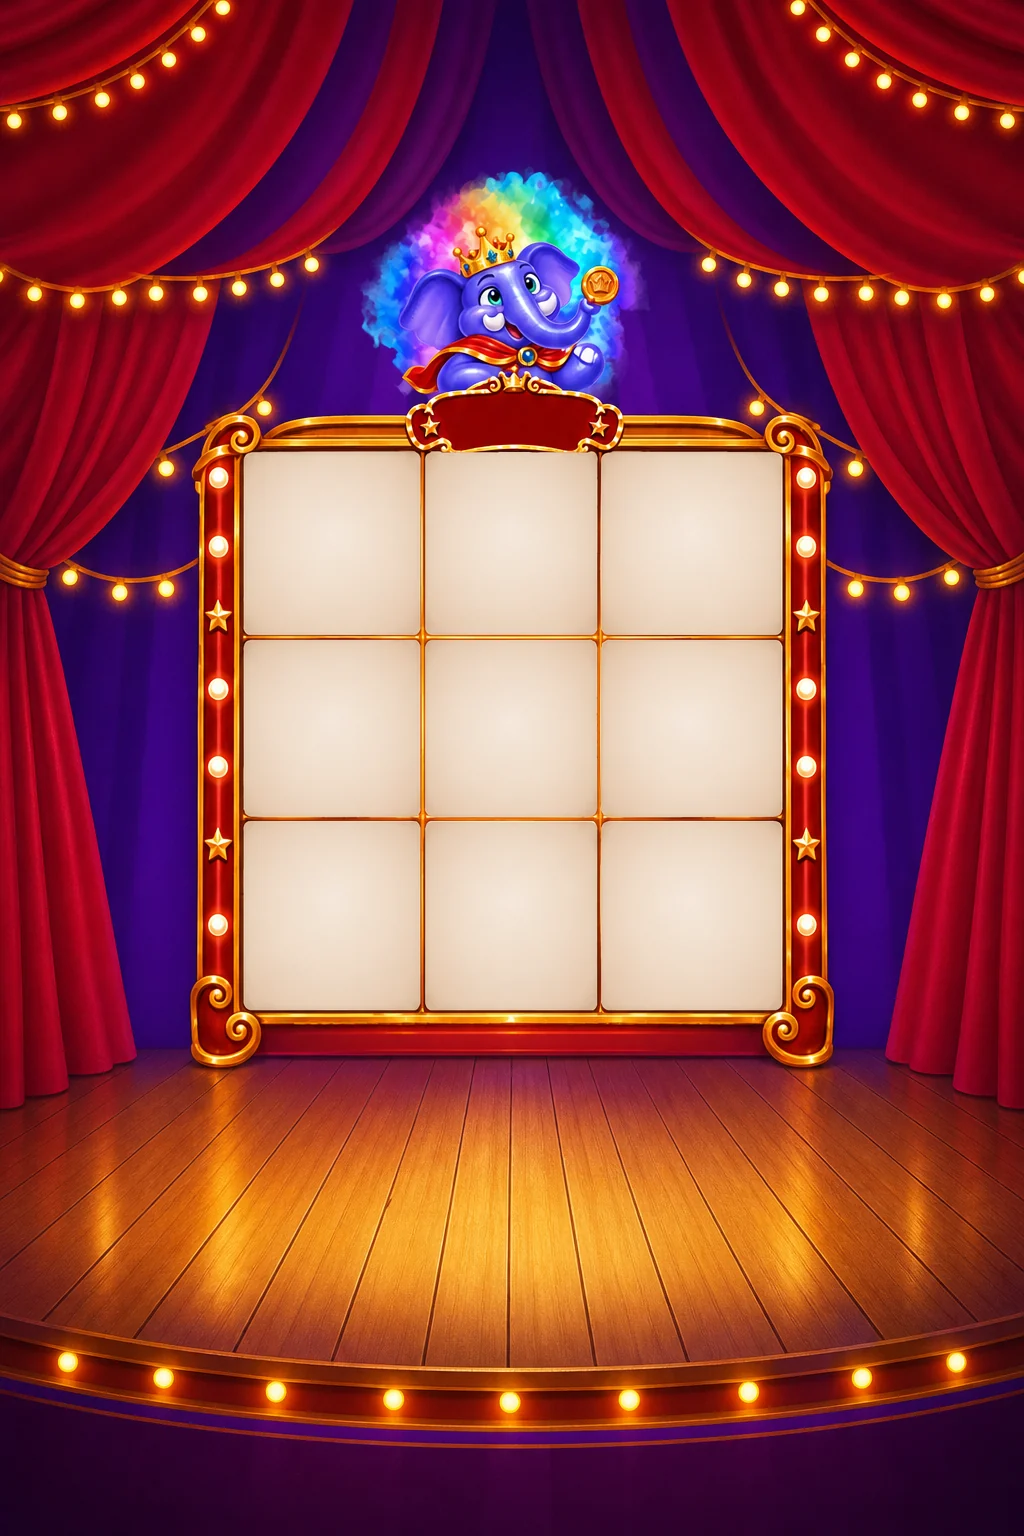
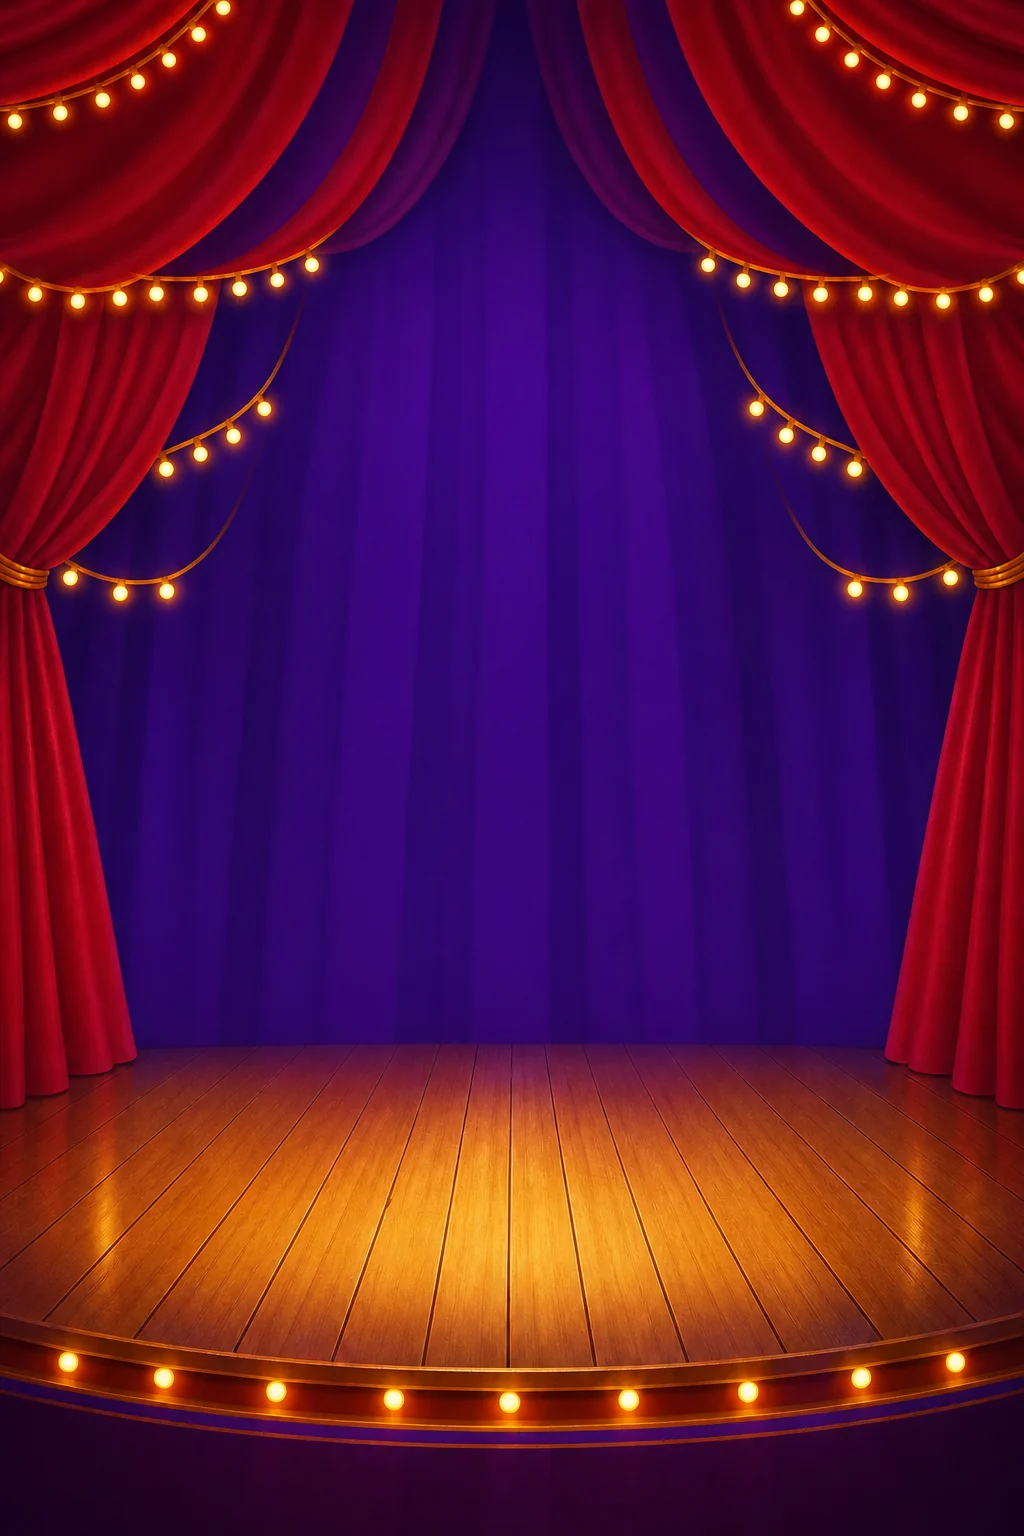
Layout de jogo profissional: HUD preso no topo, máquina centralizada, fundo só cenário
- assets/bleed/stage-bleed.webp: palco vazio (Meshy, 12 créditos), sem máquina,
  personagem nem nuvem; some o resquício de nuvem acima do quadro.
- HUD (arte do topo, saldo, casinha, menu, cesta) preso logo abaixo da barra de
  status; quadro da máquina + botão centralizado no espaço livre (42% acima).
- Janelas (prêmio, menu, tabela, Home) cobrem a tela inteira.
- Testado de 320x568 a tablet 10", com janelas abertas, sem erros.

Claude-Session: https://claude.ai/code/session_01Uu4r9oUEkdrfDt3VrEmVN5

diff --git a/Fortune Circus.dc.html b/Fortune Circus.dc.html
@@ -48,7 +48,7 @@ a:hover { color: #fff3c4; }
  <!-- palco com sangria: mesma escala do quadro, centro alinhado a ele (151 unidades de cada lado, 130 em cima, 200 embaixo) -->
  <div style="position: absolute; left: {{ bleedL }}; top: {{ bleedT }}; width: {{ bleedW }}; height: {{ bleedH }}; background-image: url('assets/bleed/stage-bleed.webp'); background-size: 100% 100%; opacity: {{ bleedOn }}; pointer-events: none;"></div>
  <sc-if value="{{ pageDim }}" hint-placeholder-val="{{ false }}"><div onClick="{{ pageDimClick }}" style="position: absolute; inset: 0; background: {{ pageDimBg }}; cursor: pointer; animation: fcFade .2s ease-out;"></div></sc-if>
- <div style="position: relative; flex: 0 0 auto; width: 453px; height: 802px; overflow: hidden; font-family: 'Baloo 2', system-ui, sans-serif; user-select: none; -webkit-user-select: none; -webkit-tap-highlight-color: transparent; background: {{ stageBg }}; border-radius: {{ radius }}; box-shadow: {{ frameShadow }}; transform-origin: top center; margin-top: {{ stageTop }}; transform: scale({{ scale }}); opacity: {{ stageOpacity }}; transition: opacity .5s ease;">
+ <div style="position: relative; flex: 0 0 auto; width: 453px; height: 802px; overflow: visible; font-family: 'Baloo 2', system-ui, sans-serif; user-select: none; -webkit-user-select: none; -webkit-tap-highlight-color: transparent; background: {{ stageBg }}; border-radius: {{ radius }}; box-shadow: {{ frameShadow }}; transform-origin: top center; margin-top: {{ stageTop }}; transform: scale({{ scale }}); opacity: {{ stageOpacity }}; transition: opacity .5s ease;">
  <div style="position: absolute; inset: 0; animation: {{ shake }};">
   <div style="position: absolute; inset: 0; background-image: url('assets/stage-hd-c.webp?v=2'); background-size: 453px 802px; background-repeat: no-repeat; -webkit-mask-image: {{ edgeMask }}; mask-image: {{ edgeMask }}; -webkit-mask-size: 100% 100%; mask-size: 100% 100%; -webkit-mask-repeat: no-repeat; mask-repeat: no-repeat; -webkit-mask-composite: source-in; mask-composite: intersect; pointer-events: none;"></div>
   <div style="position: absolute; left: 0; top: 0; width: 453px; height: 235px; background-image: url('assets/fx/top-layer3.webp'); background-size: 100% 100%; pointer-events: none; -webkit-mask-image: {{ topMask }}; mask-image: {{ topMask }}; -webkit-mask-composite: source-in; mask-composite: intersect;"></div>
@@ -59,7 +59,7 @@ a:hover { color: #fff3c4; }
     </div>
   </div>
   <div style="position: absolute; left: 0; top: 150px; width: 453px; height: 85px; background-image: url('assets/fx/machine-front3.webp'); background-size: 100% 100%; pointer-events: none;"></div>
-  <div style="position: absolute; left: 0; top: 0; width: 453px; height: 80px; background-image: url('assets/fx/ui-top.webp'); background-size: 100% 100%; pointer-events: none;"></div>
+  <div style="position: absolute; left: 0; top: 0; margin-top: {{ hudLift }}; width: 453px; height: 80px; background-image: url('assets/fx/ui-top.webp'); background-size: 100% 100%; pointer-events: none;"></div>
 
   <div style="position: absolute; left: 34.333px; top: 219.5px; width: 126.5px; height: 127.5px; overflow: hidden; border-radius: 6px;">
     <div data-sym="0" style="position: absolute; left: 50%; top: 50%; width: 124px; height: 124px; margin: -62px 0 0 -62px; transform-origin: 50% 86%; background-image: url('assets/symbols-v7.webp'); background-size: 1200% 100%; background-repeat: no-repeat; background-position-x: {{ c0.pos }}; opacity: {{ c0.dim }}; animation: {{ c0.anim }};"></div>
@@ -135,7 +135,7 @@ a:hover { color: #fff3c4; }
   <sc-if value="{{ l3 }}" hint-placeholder-val="{{ false }}"><div style="position: absolute; left: -32.667px; top: 407.75px; width: 520px; height: 5px; border-radius: 3px; transform: rotate(44.66deg); background: linear-gradient(90deg, rgba(255,214,90,0), #fff3b0, rgba(255,214,90,0)); box-shadow: 0 0 12px 3px rgba(255,200,60,.9); animation: fcLineD 1.6s ease-out forwards; pointer-events: none;"></div></sc-if>
   <sc-if value="{{ l4 }}" hint-placeholder-val="{{ false }}"><div style="position: absolute; left: -32.667px; top: 407.75px; width: 520px; height: 5px; border-radius: 3px; transform: rotate(-44.66deg); background: linear-gradient(90deg, rgba(255,214,90,0), #fff3b0, rgba(255,214,90,0)); box-shadow: 0 0 12px 3px rgba(255,200,60,.9); animation: fcLineD 1.6s ease-out forwards; pointer-events: none;"></div></sc-if>
 
-  <div data-bal="1" style="position: absolute; left: 19.333px; top: 30px; width: 130px; height: 36px; border-radius: 18px; overflow: hidden; background-image: url('assets/stage-hd-c.webp?v=2'); background-size: 453px 802px; background-position: -19.333px -30px; background-repeat: no-repeat; transform: scale(1.25); transform-origin: 17.5px 18px;">
+  <div data-bal="1" style="position: absolute; left: 19.333px; top: 30px; margin-top: {{ hudLift }}; width: 130px; height: 36px; border-radius: 18px; overflow: hidden; background-image: url('assets/stage-hd-c.webp?v=2'); background-size: 453px 802px; background-position: -19.333px -30px; background-repeat: no-repeat; transform: scale(1.25); transform-origin: 17.5px 18px;">
   <div style="position: absolute; left: 39px; top: -2px; width: 88px; height: 39px; display: flex; align-items: center; justify-content: center;">
     <span style="font-size: {{ balanceSize }}; font-weight: 800; color: #662c2c; letter-spacing: -.2px; line-height: 1; white-space: nowrap; font-variant-numeric: tabular-nums; transform: translateY(.05em);">{{ balanceText }}</span>
   </div>
@@ -175,8 +175,8 @@ a:hover { color: #fff3c4; }
     </div>
   </sc-if>
 
-  <div onClick="{{ goHome }}" onPointerDown="{{ pressHome }}" onPointerUp="{{ pressUp }}" onPointerLeave="{{ pressUp }}" onPointerCancel="{{ pressUp }}" role="button" style="position: absolute; left: 341.833px; top: 29.5px; width: 41px; height: 41px; cursor: pointer; border-radius: 50%; overflow: hidden; background-image: url('assets/stage-hd-c.webp?v=2'); background-size: 453px 802px; background-position: {{ homeBgPos }}; background-repeat: no-repeat; filter: {{ homeFilter }}; box-shadow: {{ homeShadow }}; transition: {{ homeTrans }}; transform: translateX(-6px) scale(1.25);"></div>
-  <div onClick="{{ toggleMenu }}" onPointerDown="{{ pressMenu }}" onPointerUp="{{ pressUp }}" onPointerLeave="{{ pressUp }}" onPointerCancel="{{ pressUp }}" role="button" style="position: absolute; left: 391.833px; top: 29.5px; width: 41px; height: 41px; cursor: pointer; border-radius: 50%; overflow: hidden; background-image: url('assets/stage-hd-c.webp?v=2'); background-size: 453px 802px; background-position: {{ menuBgPos }}; background-repeat: no-repeat; filter: {{ menuFilter }}; box-shadow: {{ menuShadow }}; transition: {{ menuTrans }}; transform: translateX(2px) scale(1.25);"></div>
+  <div onClick="{{ goHome }}" onPointerDown="{{ pressHome }}" onPointerUp="{{ pressUp }}" onPointerLeave="{{ pressUp }}" onPointerCancel="{{ pressUp }}" role="button" style="position: absolute; left: 341.833px; top: 29.5px; margin-top: {{ hudLift }}; width: 41px; height: 41px; cursor: pointer; border-radius: 50%; overflow: hidden; background-image: url('assets/stage-hd-c.webp?v=2'); background-size: 453px 802px; background-position: {{ homeBgPos }}; background-repeat: no-repeat; filter: {{ homeFilter }}; box-shadow: {{ homeShadow }}; transition: {{ homeTrans }}; transform: translateX(-6px) scale(1.25);"></div>
+  <div onClick="{{ toggleMenu }}" onPointerDown="{{ pressMenu }}" onPointerUp="{{ pressUp }}" onPointerLeave="{{ pressUp }}" onPointerCancel="{{ pressUp }}" role="button" style="position: absolute; left: 391.833px; top: 29.5px; margin-top: {{ hudLift }}; width: 41px; height: 41px; cursor: pointer; border-radius: 50%; overflow: hidden; background-image: url('assets/stage-hd-c.webp?v=2'); background-size: 453px 802px; background-position: {{ menuBgPos }}; background-repeat: no-repeat; filter: {{ menuFilter }}; box-shadow: {{ menuShadow }}; transition: {{ menuTrans }}; transform: translateX(2px) scale(1.25);"></div>
 
   <div style="position: absolute; left: 0; right: 0; top: 770px; display: flex; align-items: center; justify-content: center; height: 22px;">
     <span style="flex: 0 0 auto; white-space: nowrap; font-size: 13px; font-weight: 700; color: #fff3df; text-shadow: 0 1px 2px rgba(0,0,0,.6); background: rgba(34,8,52,.72); padding: 1px 12px; border-radius: 11px; box-shadow: 0 0 0 1px rgba(255,210,120,.25);">{{ hint }}</span>
@@ -224,14 +224,14 @@ a:hover { color: #fff3c4; }
 
 
   <sc-if value="{{ homeOpen }}" hint-placeholder-val="{{ false }}">
-    <div style="position: absolute; inset: 0; z-index: 60; background: #2a0a4a; overflow: hidden; -webkit-mask-image: {{ homeMask }}; mask-image: {{ homeMask }}; -webkit-mask-composite: source-in; mask-composite: intersect;">
+    <div style="position: absolute; left: {{ ovX }}; right: {{ ovX }}; top: {{ ovT }}; bottom: {{ ovB }}; z-index: 60; background: #2a0a4a; overflow: hidden; -webkit-mask-image: {{ homeMask }}; mask-image: {{ homeMask }}; -webkit-mask-composite: source-in; mask-composite: intersect;">
       <dc-import name="Home" on-play="{{ closeHome }}" hint-size="100%,100%" style="position: absolute; inset: 0;"></dc-import>
     </div>
   </sc-if>
   <div ref="{{ fxRef }}" style="position: absolute; inset: 0; z-index: 25; pointer-events: none; overflow: visible;"></div>
 
   <sc-if value="{{ showWin }}" hint-placeholder-val="{{ false }}">
-    <div onClick="{{ dismissWin }}" role="button" style="position: absolute; inset: 0; z-index: 30; display: flex; align-items: center; justify-content: center; background: rgba(18,2,34,.62); cursor: pointer; animation: fcFade .2s ease-out;">
+    <div onClick="{{ dismissWin }}" role="button" style="position: absolute; left: {{ ovX }}; right: {{ ovX }}; top: {{ ovT }}; bottom: {{ ovB }}; z-index: 30; display: flex; align-items: center; justify-content: center; background: rgba(18,2,34,.62); cursor: pointer; animation: fcFade .2s ease-out;">
       <div style="position: relative; display: flex; flex-direction: column; align-items: center; gap: 6px; padding: 22px 34px 18px; margin: 0 22px; border-radius: 22px; background: linear-gradient(180deg, rgba(74,10,106,.98), rgba(30,4,50,.98)); border: 4px solid #f0b41f; box-shadow: 0 0 0 2px rgba(255,236,160,.35), 0 18px 50px rgba(0,0,0,.7), 0 0 60px rgba(255,200,60,.35); text-align: center; overflow: hidden; animation: fcPop .4s cubic-bezier(.2,1.4,.4,1);">
         <div style="position: absolute; top: 0; bottom: 0; width: 60px; background: linear-gradient(90deg, rgba(255,255,255,0), rgba(255,255,255,.3), rgba(255,255,255,0)); animation: fcShine 1.8s linear infinite; pointer-events: none;"></div>
         <div style="font-size: 20px; font-weight: 800; letter-spacing: 3px; color: #ffd257; text-shadow: 0 2px 0 rgba(0,0,0,.4);">{{ winTitle }}</div>
@@ -262,7 +262,7 @@ a:hover { color: #fff3c4; }
   </sc-if>
 
   <sc-if value="{{ menu }}" hint-placeholder-val="{{ false }}">
-    <div data-overlay="menu" style="position: absolute; inset: 0; z-index: 40; background: rgba(10,2,20,.78); animation: fcFade .2s ease-out;">
+    <div data-overlay="menu" style="position: absolute; left: {{ ovX }}; right: {{ ovX }}; top: {{ ovT }}; bottom: {{ ovB }}; z-index: 40; background: rgba(10,2,20,.78); animation: fcFade .2s ease-out;">
       <div onClick="{{ closeMenu }}" role="button" style="position: absolute; inset: 0; cursor: pointer;"></div>
       <div style="position: absolute; left: 16px; top: 70px; width: 421px; border-radius: 18px; overflow: hidden; background: linear-gradient(180deg, #3d0a63 0%, #26043f 100%); border: 2px solid #f0b41f; box-shadow: 0 16px 40px rgba(0,0,0,.6);">
 
@@ -316,7 +316,7 @@ a:hover { color: #fff3c4; }
   </sc-if>
 
   <sc-if value="{{ pays }}" hint-placeholder-val="{{ false }}">
-    <div data-overlay="pays" onClick="{{ togglePays }}" role="button" style="position: absolute; inset: 0; z-index: 40; display: flex; flex-direction: column; align-items: center; justify-content: center; gap: 12px; background: rgba(12,2,24,.93); cursor: pointer; animation: fcFade .2s ease-out;">
+    <div data-overlay="pays" onClick="{{ togglePays }}" role="button" style="position: absolute; left: {{ ovX }}; right: {{ ovX }}; top: {{ ovT }}; bottom: {{ ovB }}; z-index: 40; display: flex; flex-direction: column; align-items: center; justify-content: center; gap: 12px; background: rgba(12,2,24,.93); cursor: pointer; animation: fcFade .2s ease-out;">
       <div style="font-size: 15px; font-weight: 800; letter-spacing: 2px; color: #ffd257;">TABELA DE PAGAMENTOS</div>
       
       <div style="display: flex; align-items: center; gap: 12px; width: 286px; box-sizing: border-box; padding: 6px 12px 6px 8px; border-radius: 12px; background: linear-gradient(180deg, rgba(214,70,110,.55), rgba(140,24,70,.55)); border: 1.5px solid #ffd257;">
@@ -553,10 +553,13 @@ class Component extends DCLogic {
     const safe = inset ? { top: 0, bottom: 0 } : FC_SAFE_AREA(), band = inset || !window.__fcAdBanner ? 0 : FC_AD_BAND;
     const avail = h - safe.top - band - safe.bottom;
     const sc = Math.max(0.25, Math.floor(Math.min(w / 453, avail / 802) * 1000) / 1000);
-    const top = Math.round(inset ? (h - 802 * sc) / 2 : safe.top + band);
+    // Quadro (máquina + botão) centralizado no espaço livre, um pouco acima do meio; o HUD sobe de volta hudD unidades
+    // e fica preso logo abaixo da barra de status / faixa do anúncio.
+    const hudD = inset ? 0 : Math.round(Math.max(0, avail / sc - 802) * 0.42);
+    const top = Math.round(inset ? (h - 802 * sc) / 2 : safe.top + band + hudD * sc);
     const st = this.state;
-    if (sc === st.scale && inset === st.inset && top === st.stageTop && w === st.vw) return; // avoid resize↔render feedback loop
-    this.setState({ scale: sc, inset, stageTop: top, vw: w });
+    if (sc === st.scale && inset === st.inset && top === st.stageTop && w === st.vw && h === st.vh) return; // avoid resize↔render feedback loop
+    this.setState({ scale: sc, inset, stageTop: top, vw: w, vh: h, hudD });
   };
   componentDidUpdate() {
     const open = !!(this.state.menu || this.state.pays);
@@ -1644,7 +1647,12 @@ class Component extends DCLogic {
     const vals = {
       ...(() => { const sc = s.scale ?? 1, left = ((s.vw || 453 * sc) - 453 * sc) / 2;
         return { bleedL: (left - 151 * sc) + 'px', bleedT: ((s.stageTop ?? 0) - 130 * sc) + 'px', bleedW: 755 * sc + 'px', bleedH: 1132 * sc + 'px', bleedOn: s.inset ? 0 : 1,
-          edgeMask: s.inset ? 'none' : FC_EDGE_MASK, topMask: s.inset ? 'none' : FC_TOP_MASK, homeMask: s.inset ? 'none' : FC_HOME_MASK }; })(),
+          edgeMask: s.inset ? 'none' : FC_EDGE_MASK,
+          // janelas (prêmio, menu, tabela, Home) cobrem a tela inteira, não só o quadro
+          ovX: s.inset ? '0px' : -Math.ceil(((s.vw || 453 * sc) / sc - 453) / 2) + 'px',
+          ovT: s.inset ? '0px' : -Math.ceil((s.stageTop ?? 0) / sc) + 'px',
+          ovB: s.inset ? '0px' : -Math.ceil(((s.vh || 802 * sc) - (s.stageTop ?? 0)) / sc - 802) + 'px',
+          hudLift: -(s.hudD || 0) + 'px', topMask: s.inset ? 'none' : FC_TOP_MASK, homeMask: s.inset ? 'none' : FC_HOME_MASK }; })(),
       scale: s.scale ?? 1, stageTop: (s.stageTop ?? 0) + 'px', stageBg: s.inset ? '#1d0733' : 'transparent' /* o palco com sangria aparece pelas bordas suaves */,
       radius: s.inset ? '20px' : '0px',
       frameShadow: s.inset && !(s.showWin || s.menu || s.pays) ? '0 0 0 1px rgba(255,210,120,.18), 0 30px 80px rgba(0,0,0,.6)' : 'none',
@@ -1684,7 +1692,7 @@ class Component extends DCLogic {
       pageDimBg: s.pays ? 'rgba(12,2,24,.93)' : s.menu ? 'rgba(10,2,20,.78)' : 'rgba(18,2,34,.62)',
       pageDimClick: s.pays ? this.togglePays : s.menu ? this.closeMenu : this.dismissTap,
       peachShow: !s.free || feat || pv >= PEACH_GOAL,
-      peachRight: feat ? '178.5px' : '10.667px', peachTop: feat ? '50px' : '84px', peachScale: feat ? 1.3 : 1, kingOn: feat ? 0 : 1, kingMood: s.kingMood || 'idle', kingKey: s.kingKey || 0,
+      peachRight: feat ? '178.5px' : '10.667px', peachTop: feat ? '50px' : (84 - (s.hudD || 0)) + 'px', peachScale: feat ? 1.3 : 1, kingOn: feat ? 0 : 1, kingMood: s.kingMood || 'idle', kingKey: s.kingKey || 0,
       peachDots: Array.from({ length: PEACH_GOAL }, (_, i) => ({ bg: i < cv ? '#ff9a5a' : 'rgba(255,255,255,.18)', sh: i < cv ? '0 0 6px rgba(255,150,90,.9)' : 'none' })),
       peachText: cv + '/' + PEACH_GOAL,
       basketLow: [[18, 46, -6, 1], [48, 47, 3, 0], [78, 46, 7, 2]].map(([x, y, r, k]) => ({ x: (x - 17) + 'px', y: (y - 17) + 'px', r: r + 'deg', s: k < cv ? 1 : 0.2, o: k < cv ? 1 : 0 })),

diff --git a/guidelines/asset-pipeline.md b/guidelines/asset-pipeline.md
@@ -61,7 +61,8 @@ Formato: "Isso tende a falhar porque X. Para acertar preciso de Y. Custo estimad
 | out/2026 | 64 WebP faltantes (jogo publicado referenciava .webp que nunca subiram ao repo) | PNG aprovado → WebP q0,86, mesma resolução (código) | 0 | 63 MB → 5,7 MB; 0 referências quebradas |
 | out/2026 | Ícone e splash do app Android (provisórios) | Recorte do King Rico mestre + fundo roxo (código, `app/scripts/icons.py`) | 0 | Legível a 48 px; arte final pendente |
 | out/2026 | Palco com sangria (bleed) para todos os formatos de tela | Meshy gpt-image-2 via GitHub Actions, 1 tentativa | 12 | Não estendeu: redesenhou a cena (máquina menor, chão de madeira). Serviu como fundo: arte original por cima, recortada pela forma da máquina (máscara SVG) |
-| Saldo atual (Meshy, 09/out) | | | 927 | O log anterior dizia 1808; o saldo real antes desta geração era 939 |
+| out/2026 | Palco vazio (só o fundo, sem máquina/personagem/nuvem) | Meshy gpt-image-2 com o palco anterior como referência | 12 | Aprovado: mesmo enquadramento, centro vazio; virou assets/bleed/stage-bleed.webp |
+| Saldo atual (Meshy, 09/out) | | | 915 | O log anterior dizia 1808; o saldo real antes das gerações de out/2026 era 939 |
 
 
 ## Lição — animação de personagem (out/2026)
